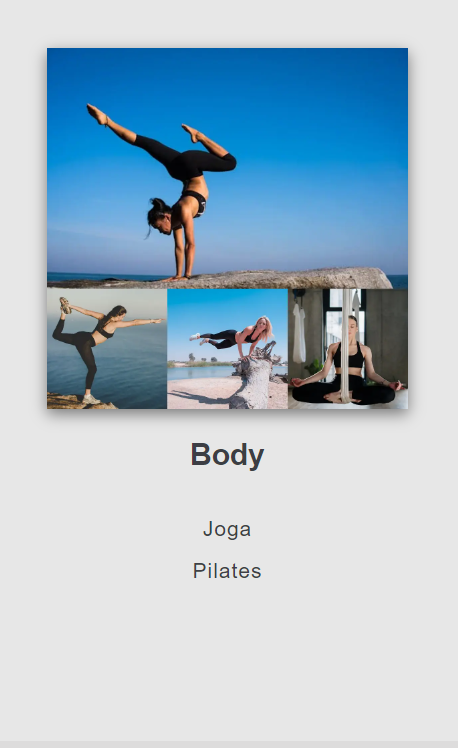
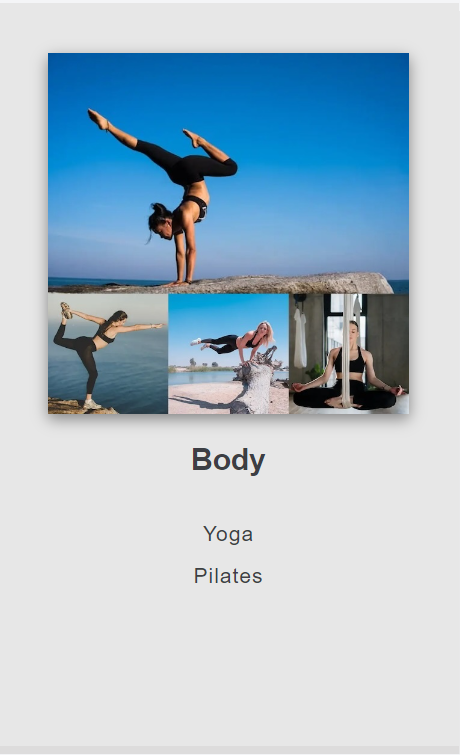
Correct grammar in README file

diff --git a/README.md b/README.md
@@ -1,8 +1,8 @@
 # Balance Your Life
 
-Balance Your life is a website designed to help individuals achieve balance in all aspects of their lives. Unlike other platforms that focus solely on work-life balance, this site targets a broader audience, recognizing that true well-being encompasses every area of life.
+Balance Your Life is a website created to assist individuals in achieving balance in all aspects of their lives. Unlike other platforms that focus solely on work-life balance, this site addresses a wider audience, acknowledging that true well-being encompasses every area of life.
 
-This site provides valuable information and practical techniques to help users effectively balance their lives. Whether they are struggling with stress, burnout, anxiety, or fatigue, Balance Your Life offers a starting point for everyone looking to boost their life energy and overall well-being.
+This site offers valuable insights and practical techniques to help users effectively balance their lives. Whether they are struggling with stress, burnout, anxiety, or fatigue, Balance Your Life provides a starting point for enyone seeking to boost their life energy and overall well-being.
 
 
 ![Screenshot of Responsive Mockup ](/assets/images/readme/responsiveMockup.png)
@@ -13,8 +13,8 @@ This site provides valuable information and practical techniques to help users e
 
 * Navigation Bar
 
-   - Featured on all three pages, fully responsive with links to Logo, Home page, Start Here and Contact page.
-   - Allow to easily navigate from page to page on all devices. 
+   - Featured on all three pages, fully responsive with links to the Logo, Home page, Start Here and Contact page.
+   - Enables easy navigation from page to page on all devices. 
 
 
      ![Screenshot of nav bar](/assets/images/readme/navBar.png)
@@ -23,13 +23,13 @@ This site provides valuable information and practical techniques to help users e
 
 * The Home page
 
-   - The landing page features a photograph of a balanced tower of stones with varying sizes, shapes, and colors. It is a powerful metaphor for life's different aspects and the art of balancing them. Despite of their differences, when they are in balance, they contribute to a sense of overall stability and well-being.
-   - This section introduces to Balance Your Life and explains the user how important is a balance. Each aspect of our lives is unique, with its own weight and shape- work, relationships, health, personal growth, and leisure. It might seem daunting to bring these varied components together, but with thoughtful arrangements and balance, they can create a harmonious and stable existence.
+   - The landing page showcases a photograph of a balanced tower of stones of various sizes, shapes, and colors. It serves as a powerful metaphor for different aspects of life and the art of balancing them. Despite their differences, when in harmony, they contribute to an overall sense of stability and well-being.
+   - This section introduces to Balance Your Life and emphasizes the importance of achieving balance. Each aspect of our lives is unique, with its own weight and shape - work, relationships, health, personal growth, and leisure. While it may seem daunting to integrate these varied components together, with thoughtful arrangements and balance, they can create a harmonious and stable existence.
 
    ![Screenshot of home page](/assets/images/readme/homePage.png)
 
 
-   - The reasons section explains the user why we need to balance our mind with body and soul in order to create a meaningful life and enjoy every moment and how we can achieve it.
+   - The reasons section clarifies to the user why it is essential to harmonize mind, body and soul to create a meaningful life and enjoy every moment, as well as how we can accomplish this.
 
 
    ![Screenshot of reasons section](/assets/images/readme/reasons.png)
@@ -38,28 +38,28 @@ This site provides valuable information and practical techniques to help users e
 
 * The Footer
 
-  - The footer section includes links to social media such us: Facebook, Twitter and YouTube.
-  - All links opens in a new tab for easy navigation.
-  - It provides users with quick access to additional information.
+  - The footer section includes links to social media such as Facebook, Twitter and YouTube.
+  - All links open in a new tab for easy navigation.
+  - It offers users quick access to additional information.
 
   ![Screenshot of footer](/assets/images/readme/footer.png) 
   
 
 * The Start Here page
 
-  - The start here page is designed to help users start their jurney towards achieving  a harmonious life. Whether they are new to the concept of holistic well-being or looking to deepen their understanding, this guide provides simple, actionable steps they can take right now to start feeling more balanced and energized.
+  - The start here page is designed to help users begin their journey towards achieving a harmonious life. Whether they are new to the concept of holistic well-being or looking to deepen their understanding, this guide provides simple, actionable steps they can take right now to start feeling more balanced and energized.
 
-  - Mind. This section focus on enhancing mental end emotional well-being. Users can find simple tips that can help them start improving their mental and emotional health by emphasizing mindfulness and meditation, especially in natural settings.
+  - Mind. This section focuses on enhancing mental and emotional well-being. Users can find simple tips that can help them start improving their mental and emotional health by emphasizing mindfulness and meditation, especially in natural settings.
 
   ![Screnshot of mind section](/assets/images/readme/nature.png)
 
-   - Body. In this section user can find simple advise on how they can balance their life by moving their body, starting with yoga or pilates. 
-   - Movement is vital for physical and mental health. It boost energy levels and mood, contributing to an overall sense of well-being.
+   - Body. In this section, users can find simple advice on how they can balance their life by moving their body, starting with Yoga or Pilates. 
+   - Movement is essential for physical and mental health. It boosts energy levels and mood, contributing to an overall sense of well-being.
 
    ![Screenshot of body section](/assets/images/readme/yoga.png)
 
-   - Soul. In this section users can explore ways to balance their soul not only through spiritual practices, but also by nourishing the body with the right foods.
-   - Both Ayurveda and the Chinese Five Element Diet offer holistic approaches to diet and encourage mindful eating, where one is fully present while eating, focusing on the taste, texture, aroma of food. These diets consider the mind-body-soul connection. Some herbs like ashwagandha and turmeric are known for their calming and mood-enhancing properties.
+   - Soul. In this section, users can explore ways to balance their soul not only through spiritual practices, but also by nourishing the body with the right foods.
+   - Both Ayurveda and the Chinese Five Element Diet offer holistic approaches to dieting and encourage mindful eating, where one is fully present while eating, focusing on the taste, texture, aroma of food. These diets consider the mind-body-soul connection. Certain herbs, such as ashwagandha and turmeric, are recognized for their calming and mood-enhancing properties.
    - Integrating both diets and simplifying life can help users to cultivate inner peace, emotional stability, and a deeper connection with their soul.
 
    ![Screenshot of soul section](/assets/images/readme/spicesHerbs.png)
@@ -67,8 +67,8 @@ This site provides valuable information and practical techniques to help users e
 
 * The Contact page
 
- - This section invites users to fill out the form to request personalized advice. They can select areas they want to focus on, such us diet, excercise, or a comprehensive approach. This form aims to provide tailored guidance based on individual needs and preferences.
- - The background of the form presents a tree of life. Among its branches, subtle rays of light shine through, representing the positive aspects present even in an unbalanced life. This photographs serves as a metaphor, reminding users that there is always a possibility for improvement and balance, no matter their starting point. 
+ - This section encourages users to complete the form to request personalized advice. They can choose areas they wish to focus on, such as diet, exercise, or a comprehensive approach. This form aims to provide tailored guidance based on individual needs and preferences.
+ - The background of the form features a tree of life. Among its branches, gentle rays of light shine through, symbolizing the positive aspects that exist even in an unbalanced life. This photographs serves as a metaphor, reminding users that there is always a possibility for improvement and balance, regardless of their starting point. 
 
  ![Screenshot of contact page](/assets/images/readme/contactPage.png)
 
@@ -83,16 +83,16 @@ This site provides valuable information and practical techniques to help users e
 
 - Accessibility
 
- - Website tested with lighthouse, it is accessible.
+ - Website tested with lighthouse. It is accessible.
 
 ![Screenshot of Lighthouse results](/assets/images/readme/lighthouse.png)
 
 
 
-- Tested on different browsers: Chrome, Edge, DuckDuckGo, Mozilla Firefox. Website works on all.
-- Tested internal links. All work and redirecting users between pages.
-- Tested external links for: Facebook, Tweeter and YouTube. All open in separate tab.
-- Tested contact form. All fields are required and email field accepts only email address.
+- Tested on various browsers: Chrome, Edge, DuckDuckGo, and Mozilla Firefox. The website functions on all.
+- Tested internal links. All work and redirect users between pages.
+- Tested external links for Facebook, Twitter, and YouTube. All open in separate tab.
+- Tested the contact form. All fields are required, and the email field accepts only email addresses.
 
 ![Screenshot of form](/assets/images/readme/form.png)
 
@@ -119,25 +119,25 @@ This site provides valuable information and practical techniques to help users e
 
  ### Version Control
 
-  - The site was created using Gitpod editor and pushed to Github to the remote repository balance_your_life.
-  - Git commands were used to push the code to the repository.
+  - The site was developed using the Gitpod editor and pushed to GitHub to the remote repository balance_your_life.
+  - Git commands were utilized to push the code to the repository.
 
  ### Deployment to Github Pages
 
-  - This website was deployed to Github pages with bellow steps:
-    - Navigate to repository on GitHub
-    - Go to settings tab in repository
+  - This website was deployed to GitHub Pages with the following steps:
+    - Navigate to the repository on GitHub
+    - Go to the settings tab in repository
     - Scroll down to the "Pages" section
     - Select the branch
     - Under "Source" select the branch to deploy ('main')
-    - Save settings 
+    - Save the settings 
   - Link to website: [Balance Your Life](https://magda-r-bit.github.io/balance_your_life/)
 
 
 
 ## Wireframes 
 
- - The wireframes for the website were hand-drawn for a mobile version.
+ - The wireframes for the website were sketched by hand for a mobile version.
    1. Home Page
    2. Start Here Page
    3. Contact Page 
@@ -166,11 +166,11 @@ This site provides valuable information and practical techniques to help users e
 
 - **Images**: 
    - Downloaded from  [Pexels](https://favicon.io/):
-     - Reasons section (Lady in Yoga position- Home Page).
+     - Reasons section (Lady in Yoga position - Home Page).
      - Body and Soul section (Start Here Page).
    - Downloaded from  [Unsplash](https://unsplash.com/):
      - Hero Image (Home Page).
-     - Reasons section (Men on the bridge- Home page).
+     - Reasons section (Men on the bridge - Home page).
      - Mind section (Start Here Page).
      - Background Image (Contact Page).
 
